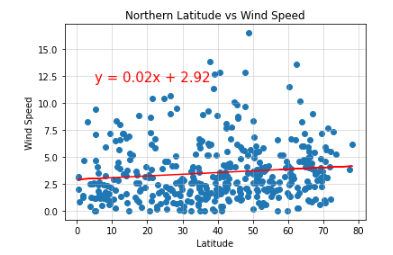
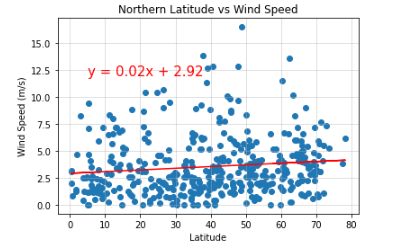
readme n updated images

Changed region(s): [[0.0305, 0.0, 0.9466, 0.9722]]

diff --git a/README.md b/README.md
@@ -1,2 +1,52 @@
 # python-api-challenge
-Module 6 Challenge
+## Module 6 Challenge
+For this project I analyzed the weather of nearly 600 randomly generated cities in order to find out if their location could be influencing the cities weather. 
+
+## Summary
+When analyzing the data ....
+
+## Latitude Vs Temperature
+![Latitude vs Temperature](images/Fig1.png)
+
+## Latitude Vs. Humidity
+![Latitude vs Humidity](images/Fig2.png)
+
+## Latitude Vs. Cloudiness
+![Latitude vs Cloudiness](images/Fig3.png)
+
+## Latitude Vs. Wind Speed
+![Latitude vs Wind Speed](images/Fig4.png)
+
+## Northern Latitude Vs. Max Temperature
+![Northern Latitude vs Temperature](images/Fig5.png)
+
+## Southern Latitude Vs. Max Temperature
+![Southern Latitude vs Temperature](images/Fig6.png)
+
+## Northern Latitude Vs. Humidity
+![Northern Latitude vs Humidity](images/Fig7.png)
+
+## Southern Latitude Vs. Humidity
+![Southern Latitude vs Humidity](images/Fig8.png)
+
+## Northern Latitude Vs. Cloudiness
+![Northern Latitude vs Cloudiness](images/Fig9.png)
+
+## Southern Latitude Vs. Cloudiness
+![Southern Latitude vs Cloudiness](images/Fig10.png)
+
+## Northern Latitude Vs. Wind Speed
+![Northern Latitude vs Wind Speed](images/Fig11.png)
+
+## Southern Latitude Vs. Wind Speed
+![Southern Latitude vs Wind Speed](images/Fig12.png)
+
+## City Map
+Below is a map of all of the randomly generated cities. Each colored dot is a new city and the size of the dot is representative of the city's humidity.
+
+![City Map](images/Fig13.png)
+
+## Ideal Weather Map
+Below is a map of cities filtered to have ideal weather conditions. Added to the hover message on the interactive map is the name of the nearest hotel as well as the country the city is located in.
+
+![City Map](images/Fig14.png)
